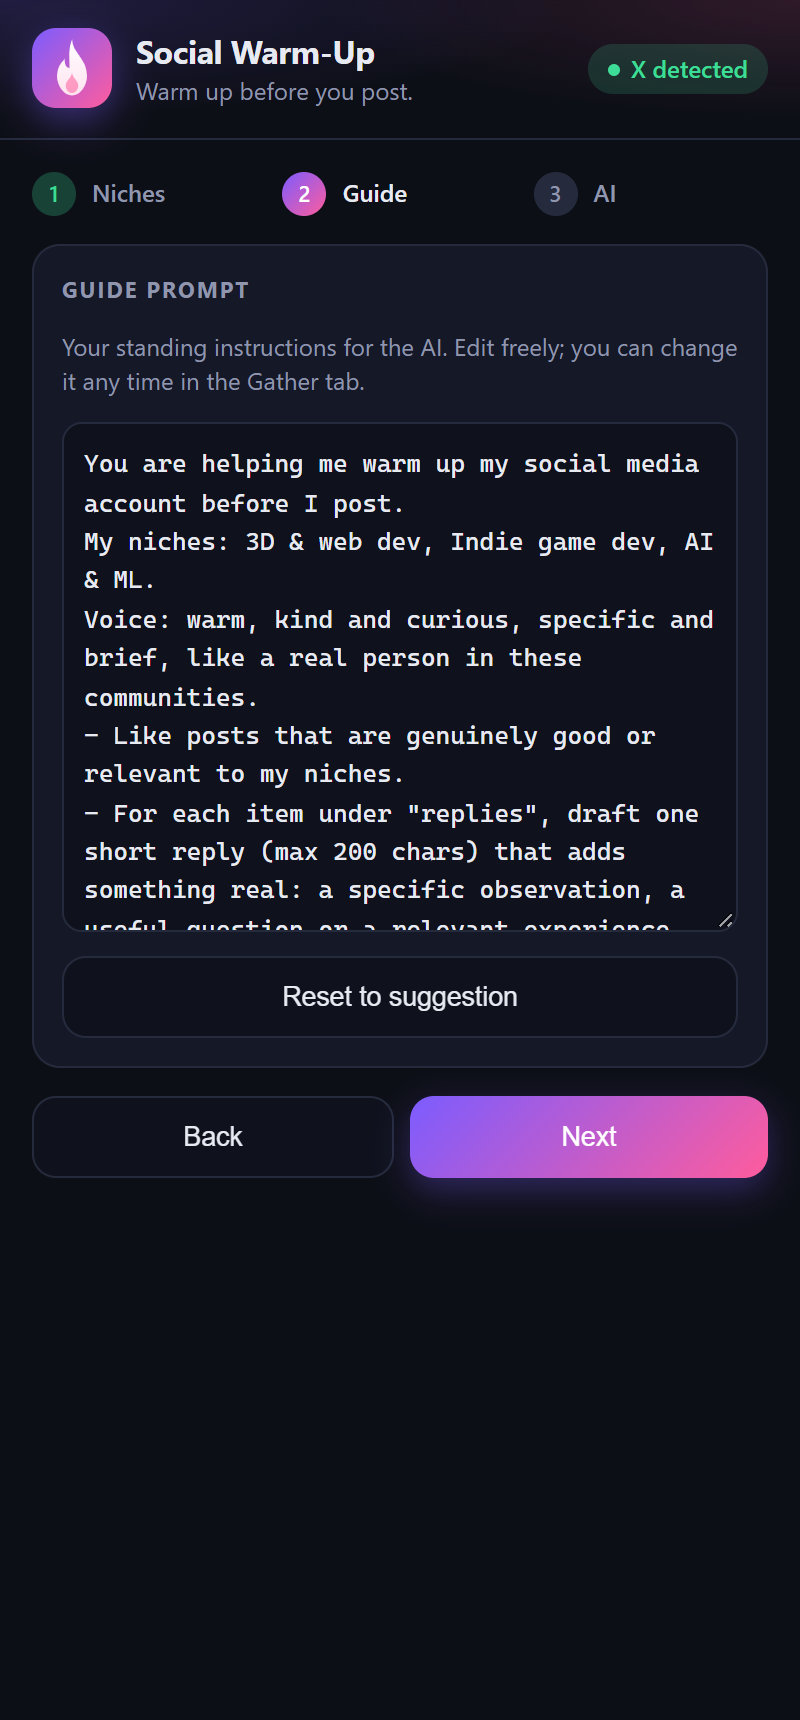
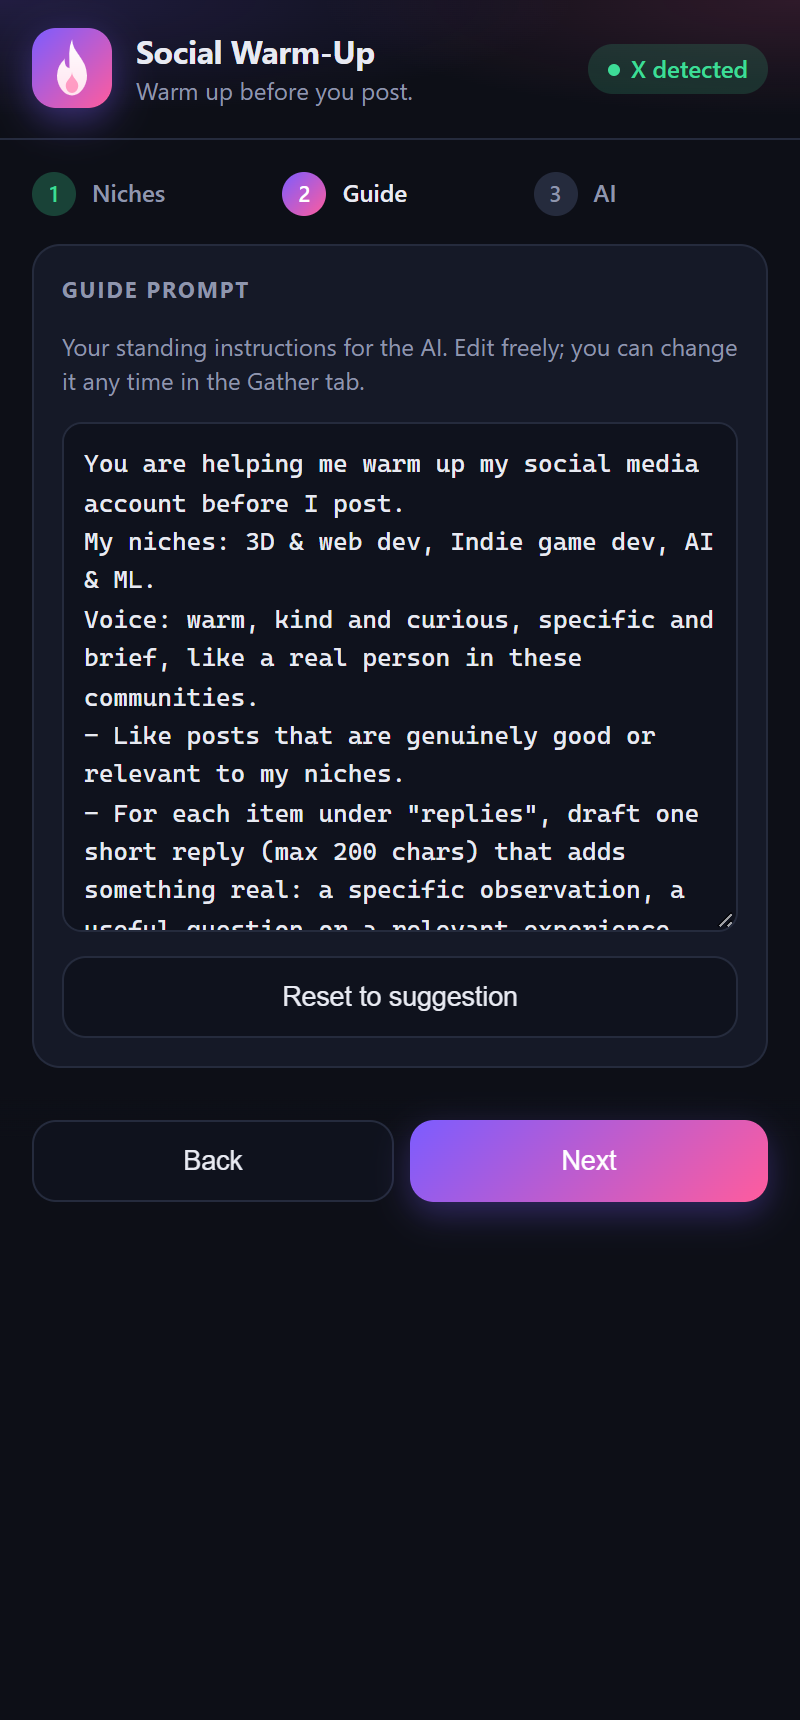
Setup: more niche options, sticky action buttons

Changed region(s): [[0.5, 0.6163, 0.9688, 0.7087], [0.2188, 0.6471, 0.3125, 0.7087]]

diff --git a/src/features/onboarding/onboarding.guide.ts b/src/features/onboarding/onboarding.guide.ts
@@ -1,4 +1,13 @@
-export const NICHES = ['3D & web dev', 'Indie game dev', 'SaaS & startups', 'Design & UX', 'AI & ML', 'Photography', 'Fitness', 'Writing']
+export const NICHES = [
+  // tech
+  '3D & web dev', 'Frontend', 'Backend', 'Mobile dev', 'DevOps & cloud', 'Open source', 'Cybersecurity', 'Data science', 'AI & ML', 'Indie game dev',
+  // product & business
+  'SaaS & startups', 'Product management', 'Marketing', 'Copywriting', 'Entrepreneurship', 'Personal finance', 'Crypto & web3',
+  // creative
+  'Design & UX', 'Motion design', 'Game art', 'Photography', 'Video & film', 'Music production', 'Writing', 'Podcasting',
+  // life
+  'Fitness', 'Productivity', 'Mental health', 'Education', 'Science', 'Books', 'Gaming', 'Travel', 'Food & cooking', 'Sports', 'Sustainability',
+]
 
 export const TONES = {
   friendly: 'warm, kind and curious',

diff --git a/src/app/styles.css b/src/app/styles.css
@@ -130,3 +130,6 @@ main > .btns .primary { flex: 1; }
 .adder { display: flex; gap: 8px; }
 .adder input { flex: 1; min-width: 0; }
 .adder .primary { padding: 0 16px; }
+
+/* setup actions stay reachable when the niche list scrolls */
+main > .btns { position: sticky; bottom: -16px; z-index: 2; margin: 0 -16px -16px; padding: 12px 16px 16px; background: linear-gradient(transparent, var(--bg) 30%); }
